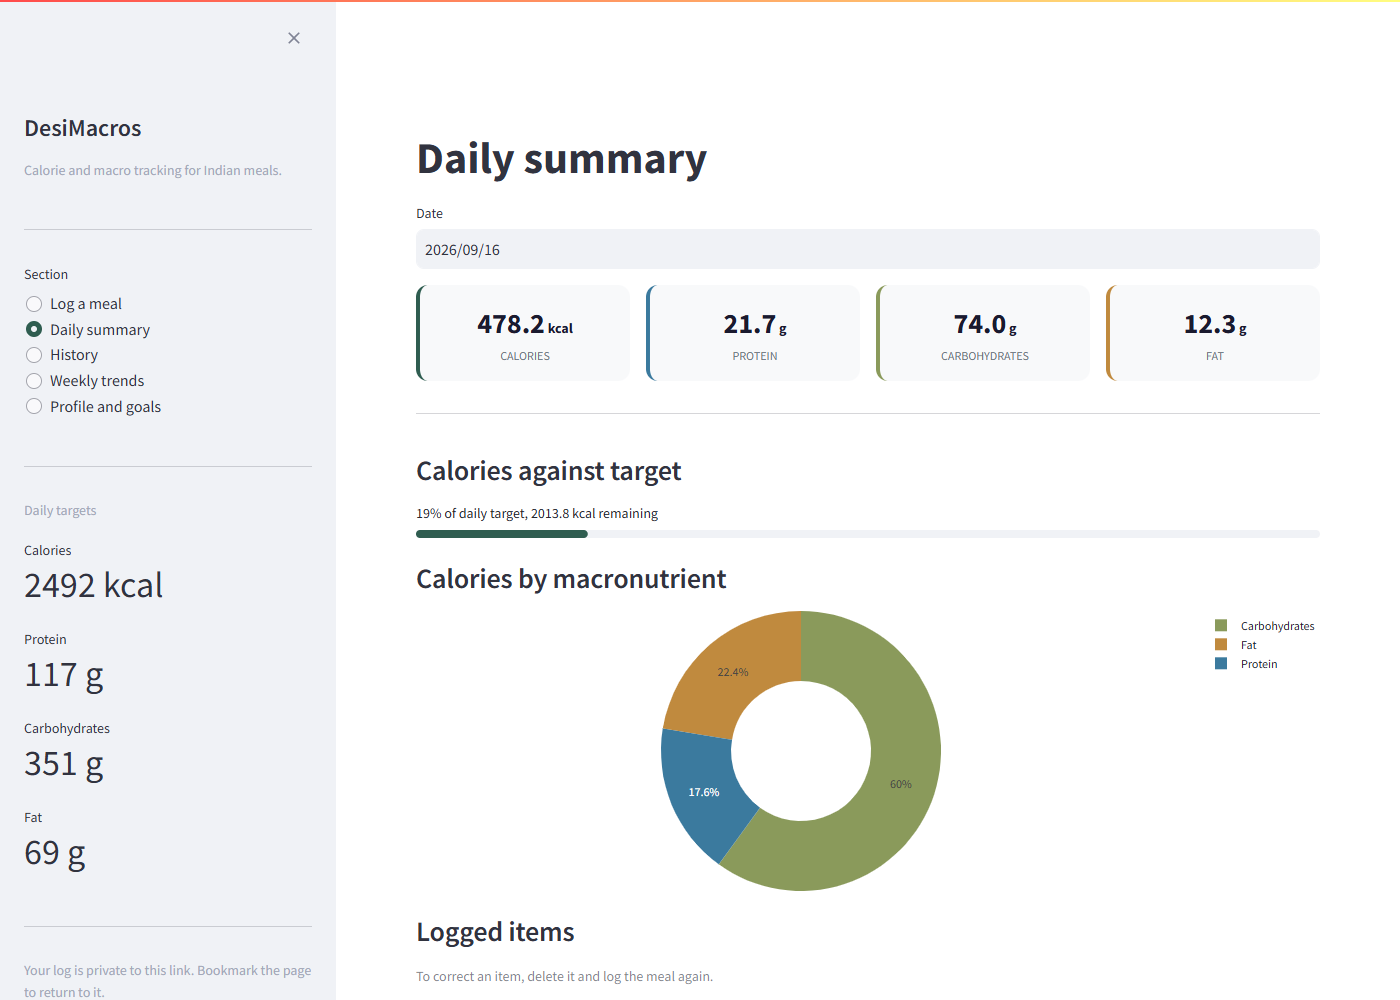
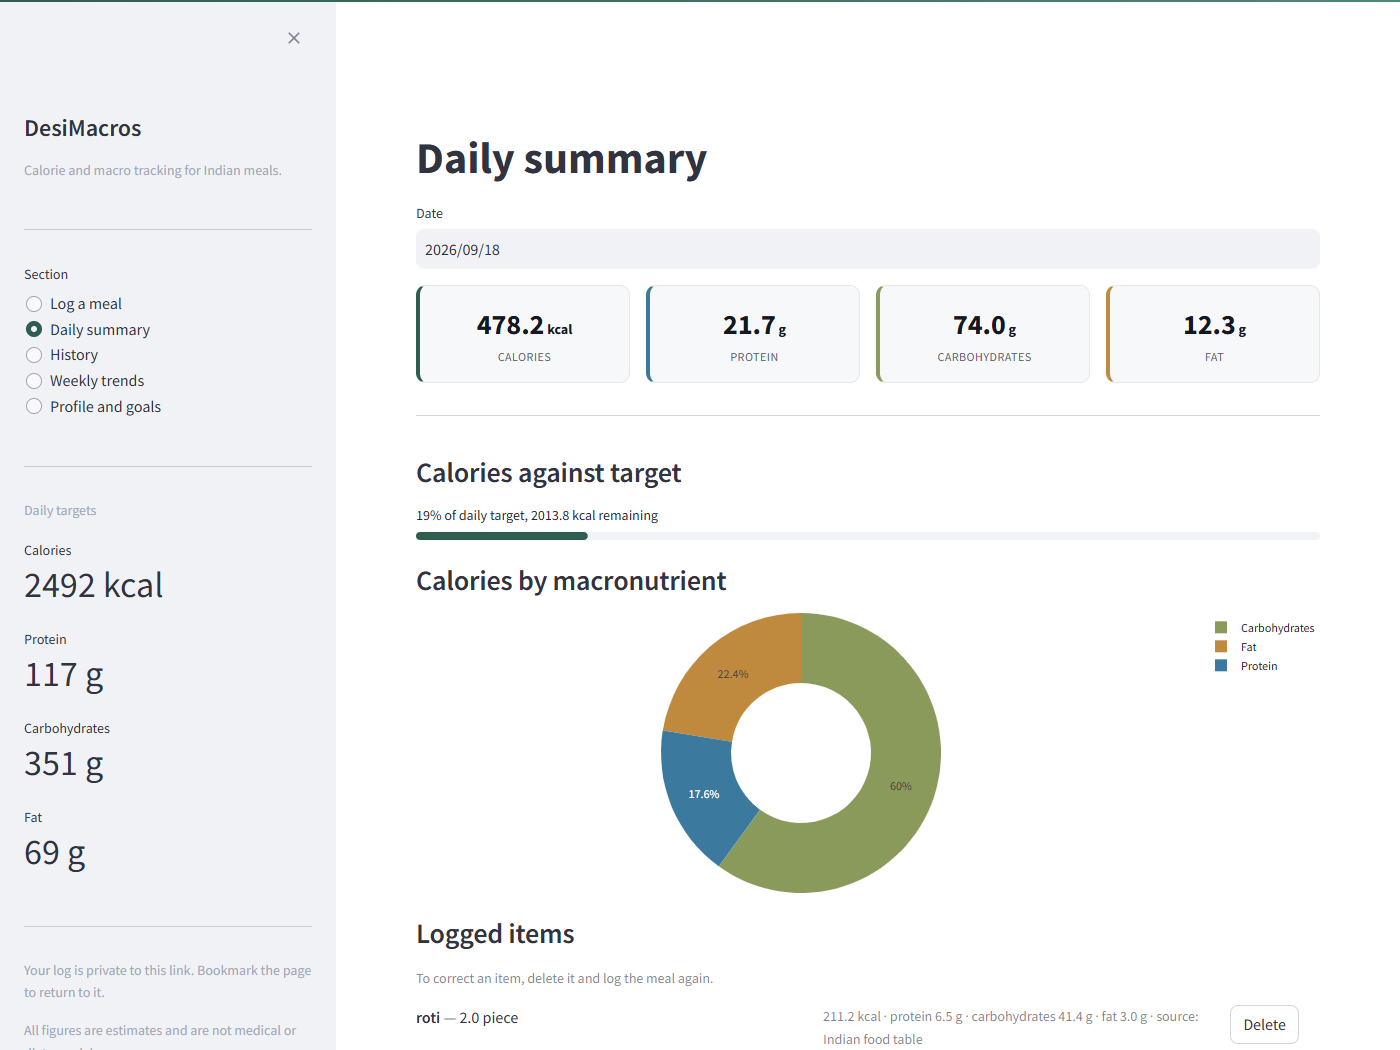
Consistent colour and table styling, and fix two things the new flow exposed (#10)
- Colour tokens shared with the other apps: hairline borders, 10px radii, one
  accent (the app's green). Streamlit's red-to-yellow top bar is recoloured,
  and the title carries an accent rule.
- Day history moves from st.dataframe to st.table so it takes the accent
  header, hairline rows and banding; floats are formatted, since st.table
  would otherwise print "2.0000".
- The example meal now states an amount for the dal. Without one, the new
  'how much?' question fired on the app's own example.
- The portion buttons were built before the conversation, so they appeared
  inside the Examples grid. They now render under the question they answer.

Screenshots refreshed.

diff --git a/app/ui/streamlit_app.py b/app/ui/streamlit_app.py
@@ -52,20 +52,68 @@ st.set_page_config(
     initial_sidebar_state="expanded",
 )
 
-st.markdown("""
+# One accent (the app's green), a white canvas and hairline borders. The macro
+# colours below are the chart palette, reused on the metric cards so a colour
+# means the same thing in both places.
+ACCENT = "#2f5d50"
+
+st.markdown(f"""
 <style>
-.macro-card {
-    background: #f8f9fa;
-    border-radius: 12px;
+:root {{
+  --accent: {ACCENT};
+  --accent-tint: #eaf1ee;
+  --ink: #14181f;
+  --muted: #5b6472;
+  --surface: #f7f8f9;
+  --hairline: #e5e7eb;
+}}
+
+/* Streamlit's own red-to-yellow bar sits above every page; make it ours. */
+[data-testid="stDecoration"] {{
+  background: linear-gradient(90deg, var(--accent), #4b8a76);
+}}
+
+.stMain h1 {{
+  padding-bottom: 0.3rem;
+  border-bottom: 3px solid var(--accent);
+  display: inline-block;
+}}
+
+/* Tables: an accent header and hairline rows, so a table reads as a unit. */
+[data-testid="stTable"] table {{
+  border-collapse: separate;
+  border-spacing: 0;
+  border: 1px solid var(--hairline);
+  border-radius: 10px;
+  overflow: hidden;
+}}
+[data-testid="stTable"] thead th {{
+  background: var(--surface);
+  color: var(--muted);
+  font-size: 12px;
+  letter-spacing: 0.04em;
+  text-transform: uppercase;
+  border-bottom: 2px solid var(--accent);
+}}
+[data-testid="stTable"] tbody tr:nth-child(even) {{ background: #fbfcfd; }}
+[data-testid="stTable"] tbody td {{ border-bottom: 1px solid var(--hairline); }}
+[data-testid="stTable"] tbody tr:last-child td {{ border-bottom: none; }}
+
+/* The day's headline figures, one card per macronutrient. */
+.macro-card {{
+    background: var(--surface);
+    border: 1px solid var(--hairline);
+    border-left: 4px solid var(--accent);
+    border-radius: 10px;
     padding: 16px;
     text-align: center;
-    border-left: 4px solid #2f5d50;
-}
-.macro-number { font-size: 28px; font-weight: 700; color: #1a1a2e; }
-.macro-label  { font-size: 12px; color: #6c757d; text-transform: uppercase; }
-.chat-msg-user { background:#f1f3f5; border-radius:12px; padding:10px 14px; margin:6px 0; color:#1a1a1a !important; }
-.chat-msg-bot  { background:#ffffff; border:1px solid #e5e7eb; border-radius:12px; padding:10px 14px; margin:6px 0; color:#1a1a1a !important; }
-.chat-role { font-size:12px; font-weight:600; color:#6c757d; margin-bottom:4px; }
+}}
+.macro-number {{ font-size: 28px; font-weight: 700; color: var(--ink); }}
+.macro-label  {{ font-size: 12px; color: var(--muted); text-transform: uppercase; letter-spacing: 0.04em; }}
+
+.chat-msg-user {{ background: var(--accent-tint); border-radius:10px; padding:10px 14px; margin:6px 0; color: var(--ink) !important; }}
+.chat-msg-bot  {{ background:#ffffff; border:1px solid var(--hairline); border-left:3px solid var(--accent); border-radius:10px; padding:10px 14px; margin:6px 0; color: var(--ink) !important; }}
+.chat-role {{ font-size:12px; font-weight:600; color: var(--muted); margin-bottom:4px; letter-spacing:0.03em; }}
 </style>
 """, unsafe_allow_html=True)
 
@@ -185,7 +233,7 @@ if page == "Log a meal":
     st.markdown("**Examples**")
     examples = [
         "A katori of poha and a cup of chai for breakfast",
-        "2 rotis with dal tadka and a katori of dahi for lunch",
+        "2 rotis with 1 katori dal tadka and a katori of dahi for lunch",
         "1 katori rajma with 1 katori rice for dinner",
         "Dal, mixed vegetable sabzi and 3 rotis",
     ]
@@ -198,14 +246,9 @@ if page == "Log a meal":
     user_input = st.chat_input("Describe your meal") or prefill
     use_typical = False
 
-    pending = st.session_state.get("pending_meal")
-    if pending and not user_input:
-        c1, c2 = st.columns(2)
-        if c1.button("Log with typical portions", use_container_width=True):
-            user_input, use_typical = pending, True
-        if c2.button("Cancel", use_container_width=True):
-            st.session_state.pop("pending_meal", None)
-            st.rerun()
+    # Set by the "Log with typical portions" button on the previous run.
+    if st.session_state.pop("log_typical", False):
+        user_input, use_typical = st.session_state.get("pending_meal", ""), True
 
     if user_input:
         st.session_state.pop("pending_meal", None)
@@ -250,8 +293,15 @@ if page == "Log a meal":
 
             st.session_state.chat_history.append({"role": "bot", "text": "\n".join(lines)})
             st.cache_data.clear()
-            if use_typical:
-                st.rerun()  # clear the portion buttons drawn earlier in this run
+
+    if st.session_state.get("pending_meal"):
+        c1, c2 = st.columns(2)
+        if c1.button("Log with typical portions", use_container_width=True):
+            st.session_state.log_typical = True
+            st.rerun()
+        if c2.button("Cancel", use_container_width=True):
+            st.session_state.pop("pending_meal", None)
+            st.rerun()
 
     for msg in reversed(st.session_state.chat_history):
         if msg["role"] == "user":
@@ -346,13 +396,15 @@ elif page == "History":
                     c3.metric("Fat", f"{day['totals'].get('fat', 0)} g")
                     if day["entries"]:
                         df = pd.DataFrame(day["entries"])
-                        st.dataframe(
-                            df[["food_name", "quantity", "unit", "calories"]].rename(
-                                columns={"food_name": "Food", "quantity": "Quantity", "unit": "Unit", "calories": "Calories (kcal)"}
-                            ),
-                            use_container_width=True,
-                            hide_index=True,
+                        table = df[["food_name", "quantity", "unit", "calories"]].rename(
+                            columns={"food_name": "Food", "quantity": "Quantity",
+                                     "unit": "Unit", "calories": "Calories (kcal)"}
                         )
+                        # st.table prints raw floats ("2.0000"), so format first.
+                        table["Quantity"] = table["Quantity"].map(lambda v: f"{v:g}")
+                        table["Calories (kcal)"] = table["Calories (kcal)"].map(lambda v: f"{v:.1f}")
+                        table.index = range(1, len(table) + 1)
+                        st.table(table)
 
 
 elif page == "Weekly trends":
